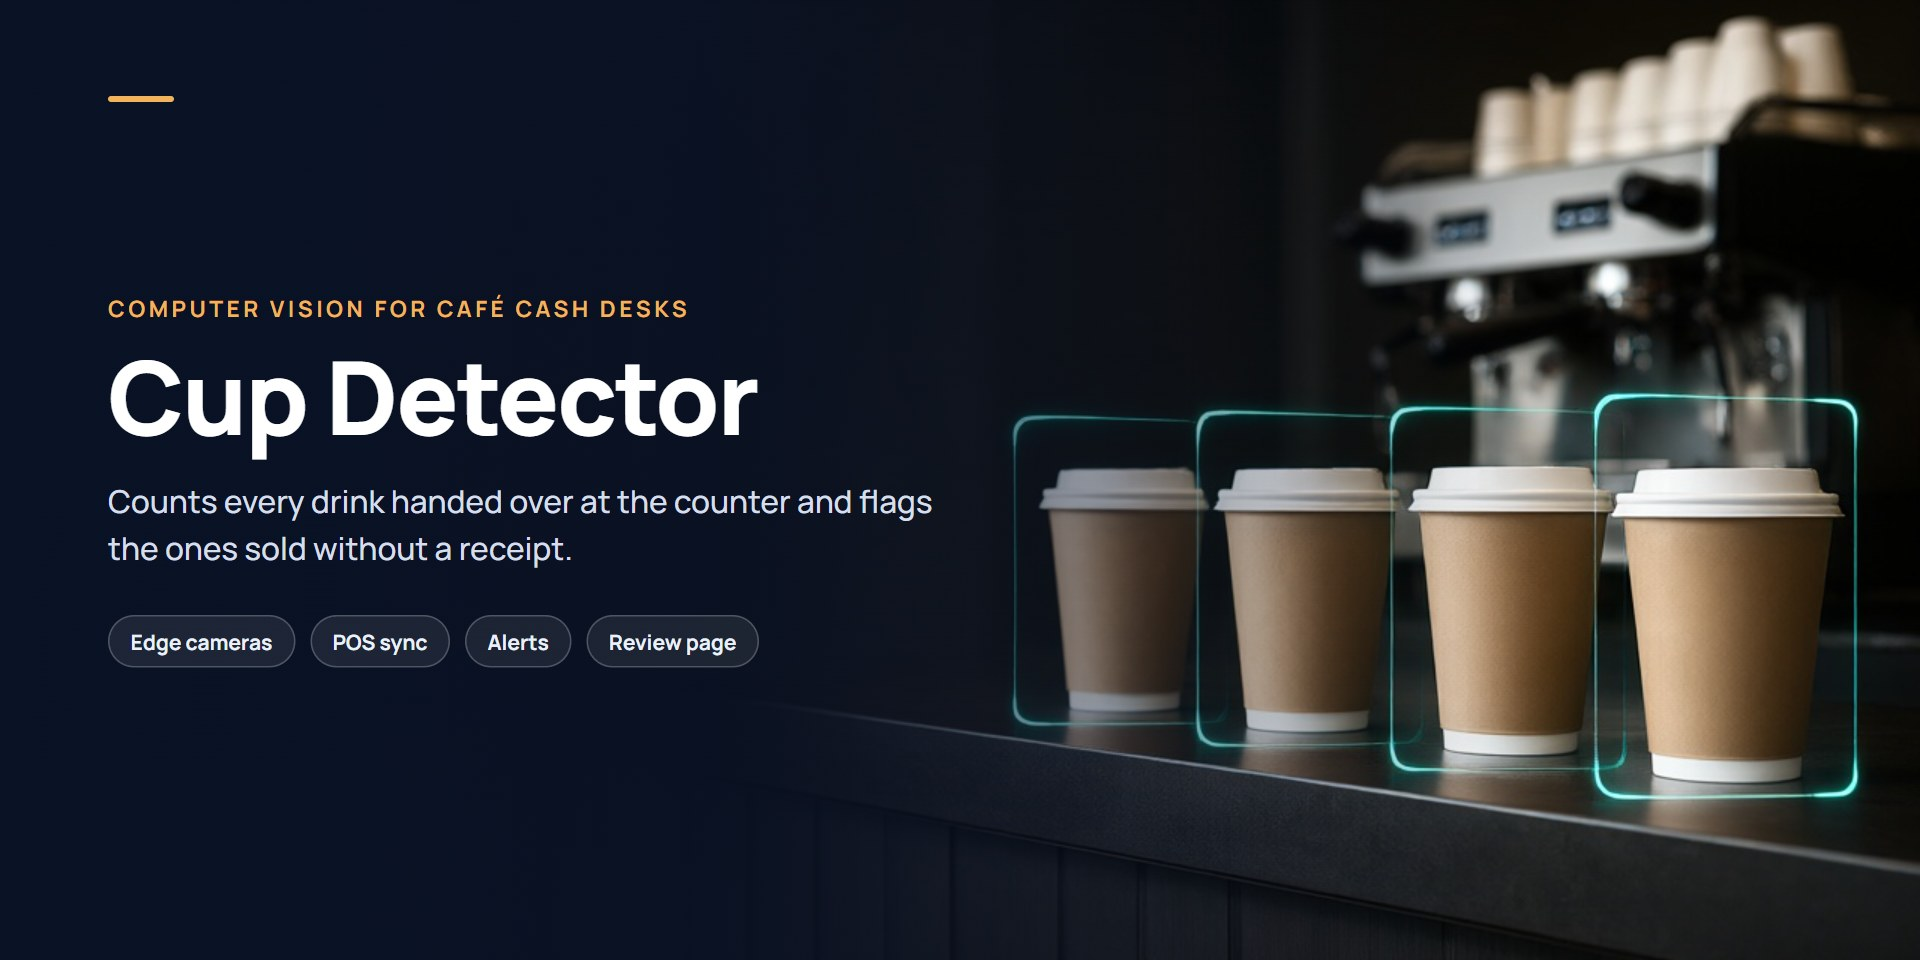
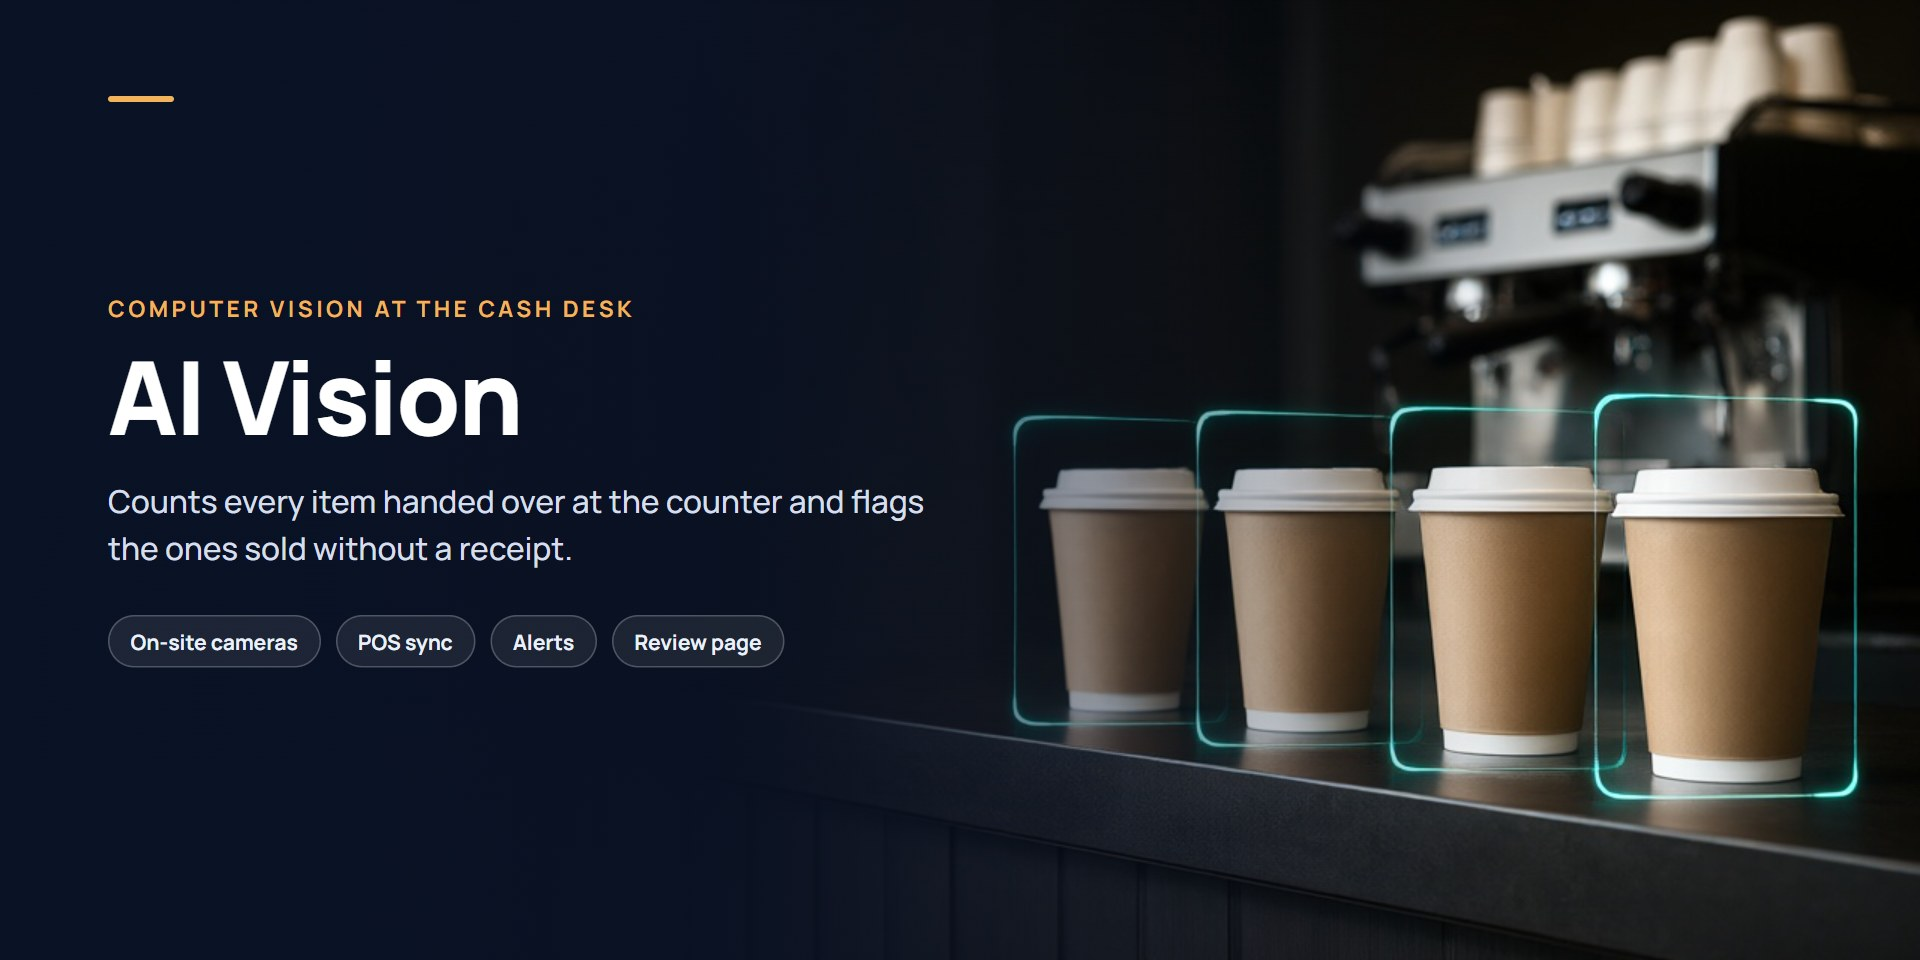
Align with sci-fi.az product pages

diff --git a/README.md b/README.md
@@ -1,10 +1,14 @@
 <p align="center">
-  <img src="assets/cover.jpg" alt="Cup Detector — computer vision for café cash desks" width="100%">
+  <img src="assets/cover.jpg" alt="AI Vision — computer vision at the cash desk" width="100%">
 </p>
 
-# Cup Detector
+# AI Vision — computer vision at the cash desk
 
-**Computer vision for café cash desks.** Cameras at the counter count every drink handed over to a customer, match each one with the receipts in the till and flag the drinks sold without a receipt. Piloted at a bakery-café chain.
+First deployed as Cup Detector at a bakery-café chain.
+
+**Cameras at the counter count every item handed over to a customer, match each one with the receipts in the till and flag the items sold without a receipt.** Everything runs on site; camera footage stays off the internet.
+
+Product page: [sci-fi.az/en/products/ai-vision](https://sci-fi.az/en/products/ai-vision)
 
 ## Who it's for
 
